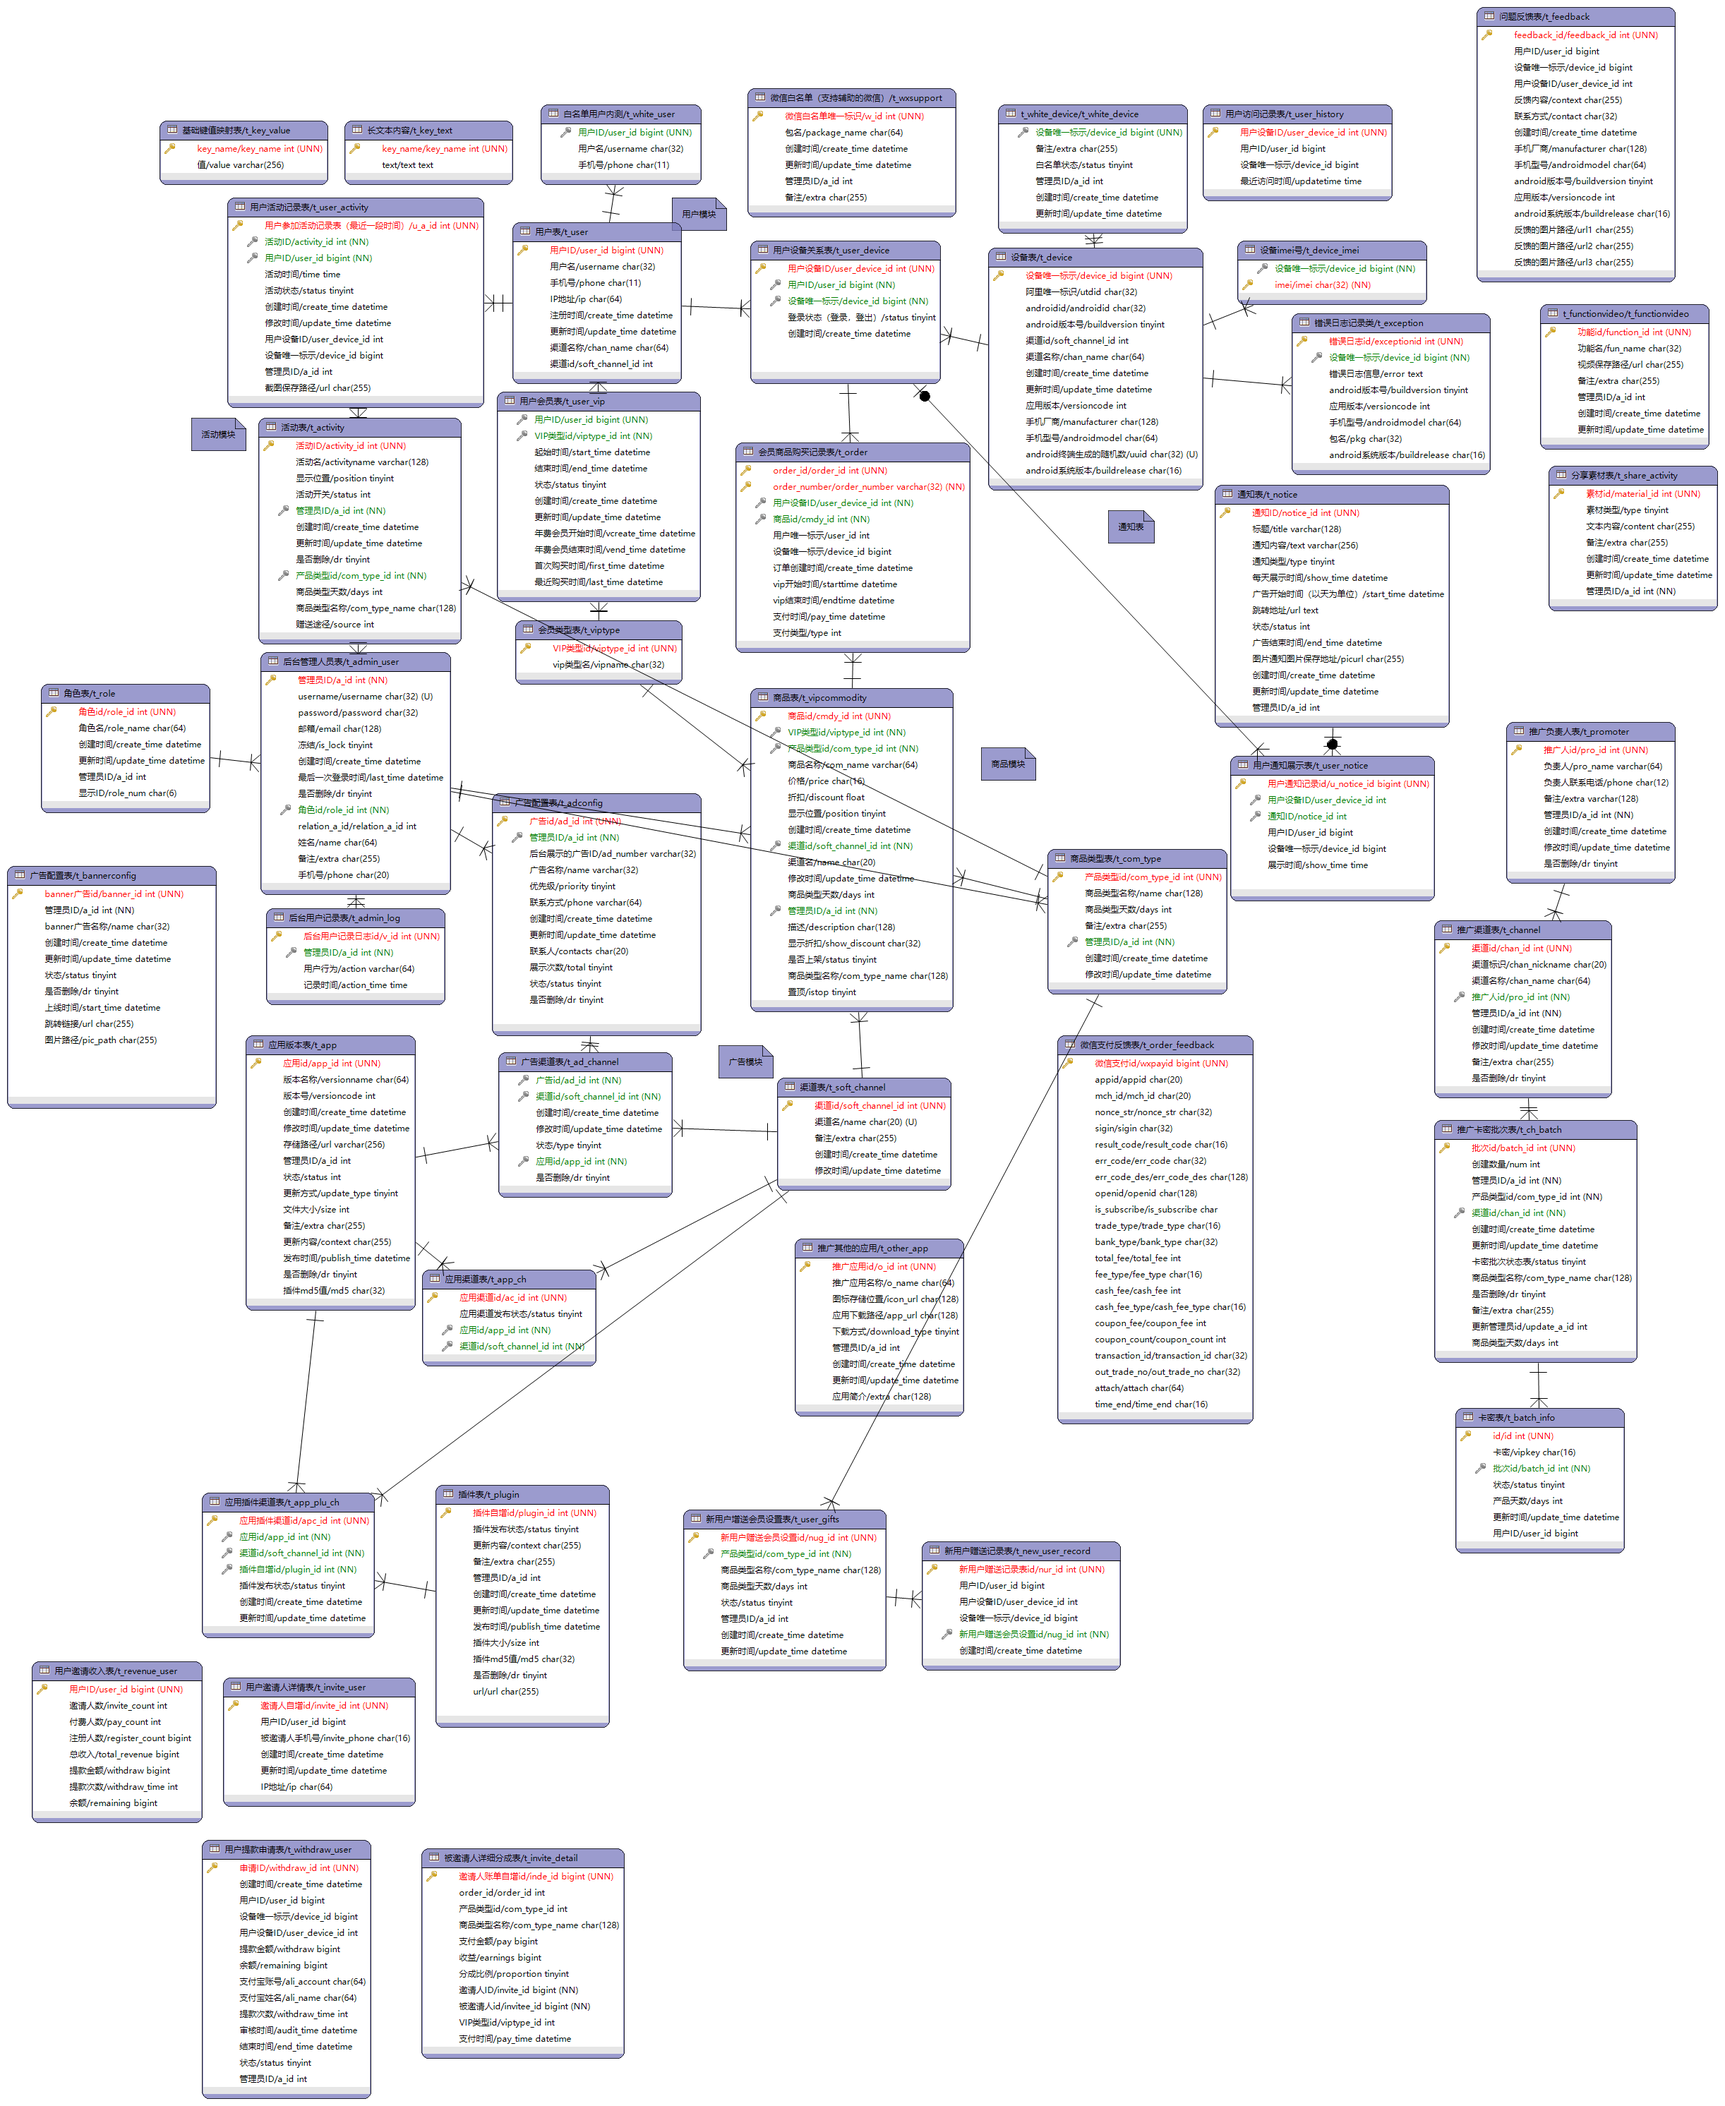
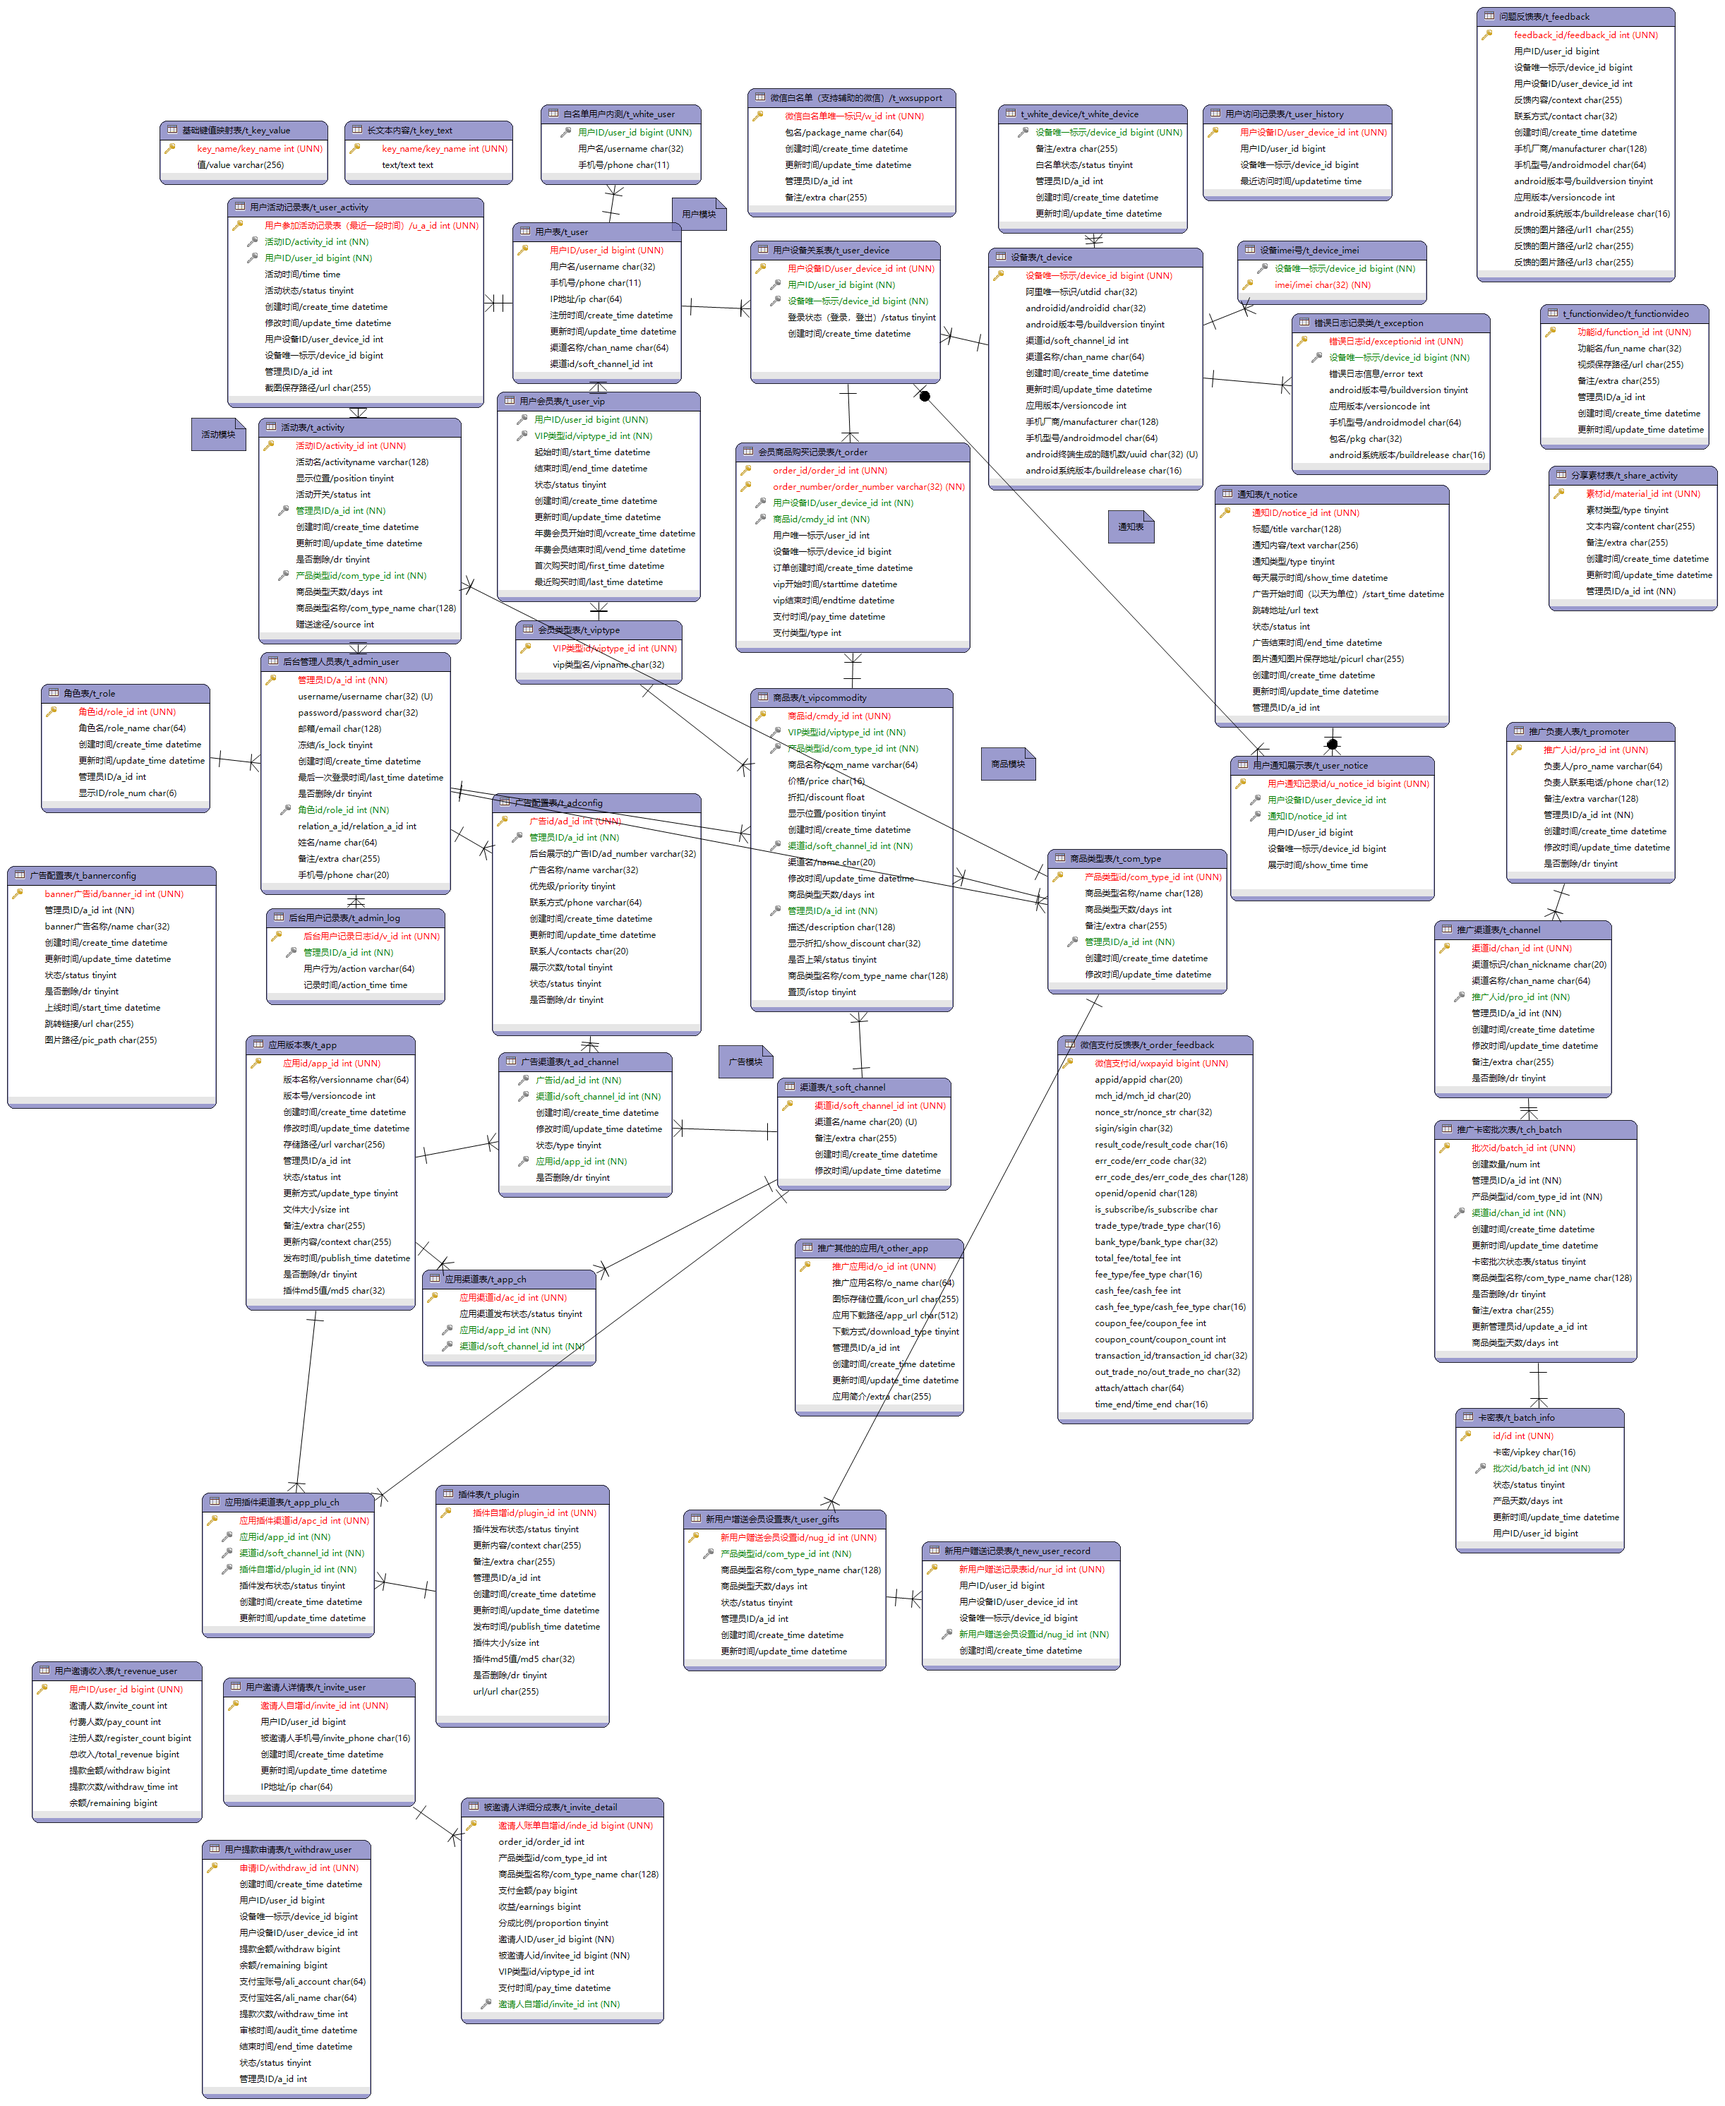
修改t_invite—_detail表

Changed region(s): [[0.2488, 0.8415, 0.4043, 0.9973]]

diff --git a/smartserver/src/main/java/com/rpa/server/pojo/InviteDetailPO.java b/smartserver/src/main/java/com/rpa/server/pojo/InviteDetailPO.java
@@ -1,6 +1,7 @@
 package com.rpa.server.pojo;
 
 import java.io.Serializable;
+import java.util.Date;
 
 /**
  * t_invite_detail
@@ -21,11 +22,15 @@ public class InviteDetailPO implements Serializable {
 
     private Byte proportion;
 
-    private Long inviteId;
+    private Long userId;
 
     private Long inviteeId;
 
     private Integer viptypeId;
+
+    private Date payTime;
+
+    private Integer inviteId;
 
     private static final long serialVersionUID = 1L;
 
@@ -85,12 +90,12 @@ public class InviteDetailPO implements Serializable {
         this.proportion = proportion;
     }
 
-    public Long getInviteId() {
-        return inviteId;
+    public Long getUserId() {
+        return userId;
     }
 
-    public void setInviteId(Long inviteId) {
-        this.inviteId = inviteId;
+    public void setUserId(Long userId) {
+        this.userId = userId;
     }
 
     public Long getInviteeId() {
@@ -107,6 +112,22 @@ public class InviteDetailPO implements Serializable {
 
     public void setViptypeId(Integer viptypeId) {
         this.viptypeId = viptypeId;
+    }
+
+    public Date getPayTime() {
+        return payTime;
+    }
+
+    public void setPayTime(Date payTime) {
+        this.payTime = payTime;
+    }
+
+    public Integer getInviteId() {
+        return inviteId;
+    }
+
+    public void setInviteId(Integer inviteId) {
+        this.inviteId = inviteId;
     }
 
     @Override
@@ -128,9 +149,11 @@ public class InviteDetailPO implements Serializable {
             && (this.getPay() == null ? other.getPay() == null : this.getPay().equals(other.getPay()))
             && (this.getEarnings() == null ? other.getEarnings() == null : this.getEarnings().equals(other.getEarnings()))
             && (this.getProportion() == null ? other.getProportion() == null : this.getProportion().equals(other.getProportion()))
-            && (this.getInviteId() == null ? other.getInviteId() == null : this.getInviteId().equals(other.getInviteId()))
+            && (this.getUserId() == null ? other.getUserId() == null : this.getUserId().equals(other.getUserId()))
             && (this.getInviteeId() == null ? other.getInviteeId() == null : this.getInviteeId().equals(other.getInviteeId()))
-            && (this.getViptypeId() == null ? other.getViptypeId() == null : this.getViptypeId().equals(other.getViptypeId()));
+            && (this.getViptypeId() == null ? other.getViptypeId() == null : this.getViptypeId().equals(other.getViptypeId()))
+            && (this.getPayTime() == null ? other.getPayTime() == null : this.getPayTime().equals(other.getPayTime()))
+            && (this.getInviteId() == null ? other.getInviteId() == null : this.getInviteId().equals(other.getInviteId()));
     }
 
     @Override
@@ -144,9 +167,11 @@ public class InviteDetailPO implements Serializable {
         result = prime * result + ((getPay() == null) ? 0 : getPay().hashCode());
         result = prime * result + ((getEarnings() == null) ? 0 : getEarnings().hashCode());
         result = prime * result + ((getProportion() == null) ? 0 : getProportion().hashCode());
-        result = prime * result + ((getInviteId() == null) ? 0 : getInviteId().hashCode());
+        result = prime * result + ((getUserId() == null) ? 0 : getUserId().hashCode());
         result = prime * result + ((getInviteeId() == null) ? 0 : getInviteeId().hashCode());
         result = prime * result + ((getViptypeId() == null) ? 0 : getViptypeId().hashCode());
+        result = prime * result + ((getPayTime() == null) ? 0 : getPayTime().hashCode());
+        result = prime * result + ((getInviteId() == null) ? 0 : getInviteId().hashCode());
         return result;
     }
 
@@ -163,9 +188,11 @@ public class InviteDetailPO implements Serializable {
         sb.append(", pay=").append(pay);
         sb.append(", earnings=").append(earnings);
         sb.append(", proportion=").append(proportion);
-        sb.append(", inviteId=").append(inviteId);
+        sb.append(", userId=").append(userId);
         sb.append(", inviteeId=").append(inviteeId);
         sb.append(", viptypeId=").append(viptypeId);
+        sb.append(", payTime=").append(payTime);
+        sb.append(", inviteId=").append(inviteId);
         sb.append(", serialVersionUID=").append(serialVersionUID);
         sb.append("]");
         return sb.toString();

diff --git a/smartweb/src/main/java/com/rpa/web/pojo/InviteDetailPO.java b/smartweb/src/main/java/com/rpa/web/pojo/InviteDetailPO.java
@@ -22,13 +22,15 @@ public class InviteDetailPO implements Serializable {
 
     private Byte proportion;
 
-    private Long inviteId;
+    private Long userId;
 
     private Long inviteeId;
 
     private Integer viptypeId;
 
     private Date payTime;
+
+    private Integer inviteId;
 
     private static final long serialVersionUID = 1L;
 
@@ -88,12 +90,12 @@ public class InviteDetailPO implements Serializable {
         this.proportion = proportion;
     }
 
-    public Long getInviteId() {
-        return inviteId;
+    public Long getUserId() {
+        return userId;
     }
 
-    public void setInviteId(Long inviteId) {
-        this.inviteId = inviteId;
+    public void setUserId(Long userId) {
+        this.userId = userId;
     }
 
     public Long getInviteeId() {
@@ -120,6 +122,14 @@ public class InviteDetailPO implements Serializable {
         this.payTime = payTime;
     }
 
+    public Integer getInviteId() {
+        return inviteId;
+    }
+
+    public void setInviteId(Integer inviteId) {
+        this.inviteId = inviteId;
+    }
+
     @Override
     public boolean equals(Object that) {
         if (this == that) {
@@ -139,10 +149,11 @@ public class InviteDetailPO implements Serializable {
             && (this.getPay() == null ? other.getPay() == null : this.getPay().equals(other.getPay()))
             && (this.getEarnings() == null ? other.getEarnings() == null : this.getEarnings().equals(other.getEarnings()))
             && (this.getProportion() == null ? other.getProportion() == null : this.getProportion().equals(other.getProportion()))
-            && (this.getInviteId() == null ? other.getInviteId() == null : this.getInviteId().equals(other.getInviteId()))
+            && (this.getUserId() == null ? other.getUserId() == null : this.getUserId().equals(other.getUserId()))
             && (this.getInviteeId() == null ? other.getInviteeId() == null : this.getInviteeId().equals(other.getInviteeId()))
             && (this.getViptypeId() == null ? other.getViptypeId() == null : this.getViptypeId().equals(other.getViptypeId()))
-            && (this.getPayTime() == null ? other.getPayTime() == null : this.getPayTime().equals(other.getPayTime()));
+            && (this.getPayTime() == null ? other.getPayTime() == null : this.getPayTime().equals(other.getPayTime()))
+            && (this.getInviteId() == null ? other.getInviteId() == null : this.getInviteId().equals(other.getInviteId()));
     }
 
     @Override
@@ -156,10 +167,11 @@ public class InviteDetailPO implements Serializable {
         result = prime * result + ((getPay() == null) ? 0 : getPay().hashCode());
         result = prime * result + ((getEarnings() == null) ? 0 : getEarnings().hashCode());
         result = prime * result + ((getProportion() == null) ? 0 : getProportion().hashCode());
-        result = prime * result + ((getInviteId() == null) ? 0 : getInviteId().hashCode());
+        result = prime * result + ((getUserId() == null) ? 0 : getUserId().hashCode());
         result = prime * result + ((getInviteeId() == null) ? 0 : getInviteeId().hashCode());
         result = prime * result + ((getViptypeId() == null) ? 0 : getViptypeId().hashCode());
         result = prime * result + ((getPayTime() == null) ? 0 : getPayTime().hashCode());
+        result = prime * result + ((getInviteId() == null) ? 0 : getInviteId().hashCode());
         return result;
     }
 
@@ -176,10 +188,11 @@ public class InviteDetailPO implements Serializable {
         sb.append(", pay=").append(pay);
         sb.append(", earnings=").append(earnings);
         sb.append(", proportion=").append(proportion);
-        sb.append(", inviteId=").append(inviteId);
+        sb.append(", userId=").append(userId);
         sb.append(", inviteeId=").append(inviteeId);
         sb.append(", viptypeId=").append(viptypeId);
         sb.append(", payTime=").append(payTime);
+        sb.append(", inviteId=").append(inviteId);
         sb.append(", serialVersionUID=").append(serialVersionUID);
         sb.append("]");
         return sb.toString();
